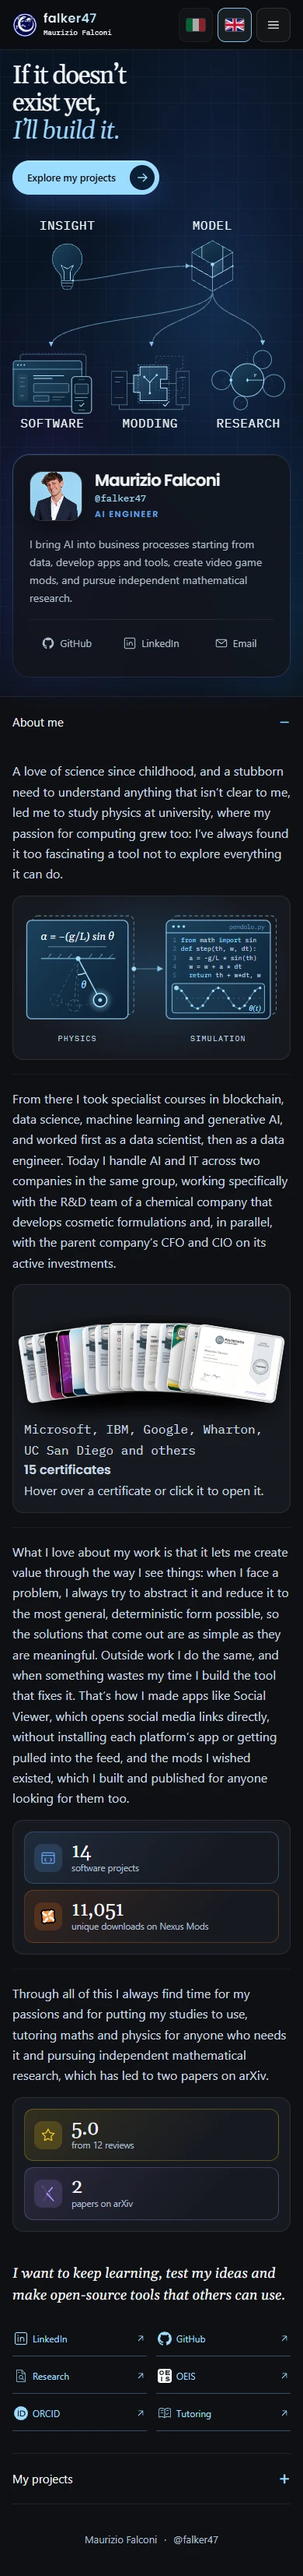
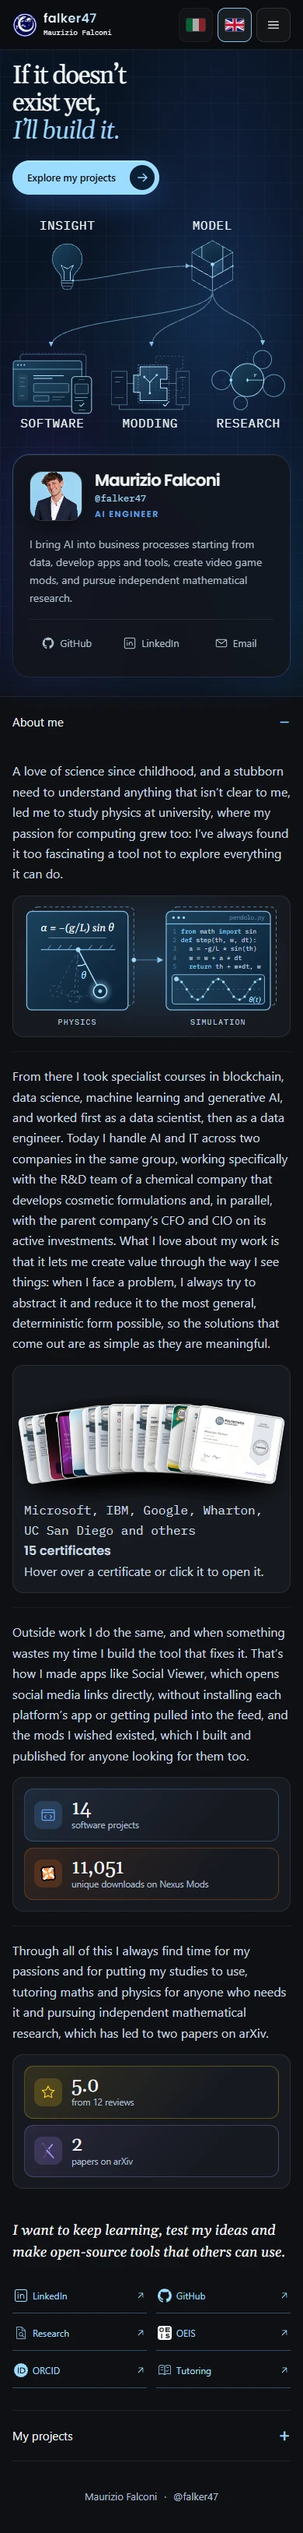
V4: the pendulum drawing 400 px wide beside the first paragraph, cropped to its panels

Changed region(s): [[0.0308, 0.0, 0.9538, 0.9625], [0.9231, 0.9004, 0.9538, 0.9625], [0.7385, 0.0, 0.8, 0.031]]

diff --git a/src/styles/sections.css b/src/styles/sections.css
@@ -245,6 +245,8 @@ a.result:hover .result-label {color:var(--paper)}
 .about-row {grid-template-columns:minmax(0,1.25fr) minmax(0,1fr);column-gap:40px;align-items:center}
 .about-row:nth-child(even) {grid-template-columns:minmax(0,1fr) minmax(0,1.25fr)}
 .about-row:nth-child(even) .about-figure {order:-1}
+/* The pendulum keeps a legible 400 px beside the short first paragraph. */
+.about-row:first-child {grid-template-columns:minmax(0,1fr) minmax(0,400px)}
 .lessons {grid-template-columns:minmax(0,1fr) minmax(0,1fr);column-gap:48px;align-items:start}
 }
 @media(min-width:1000px) {
